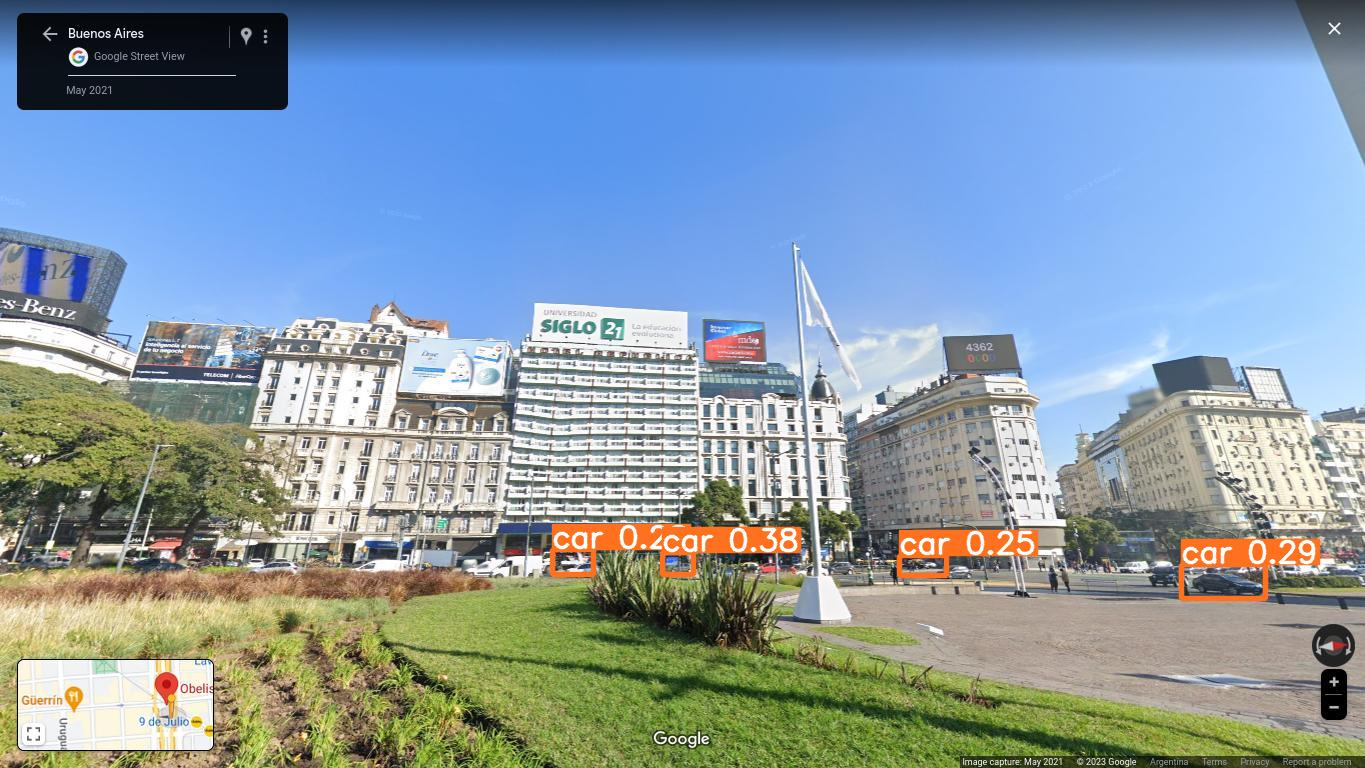
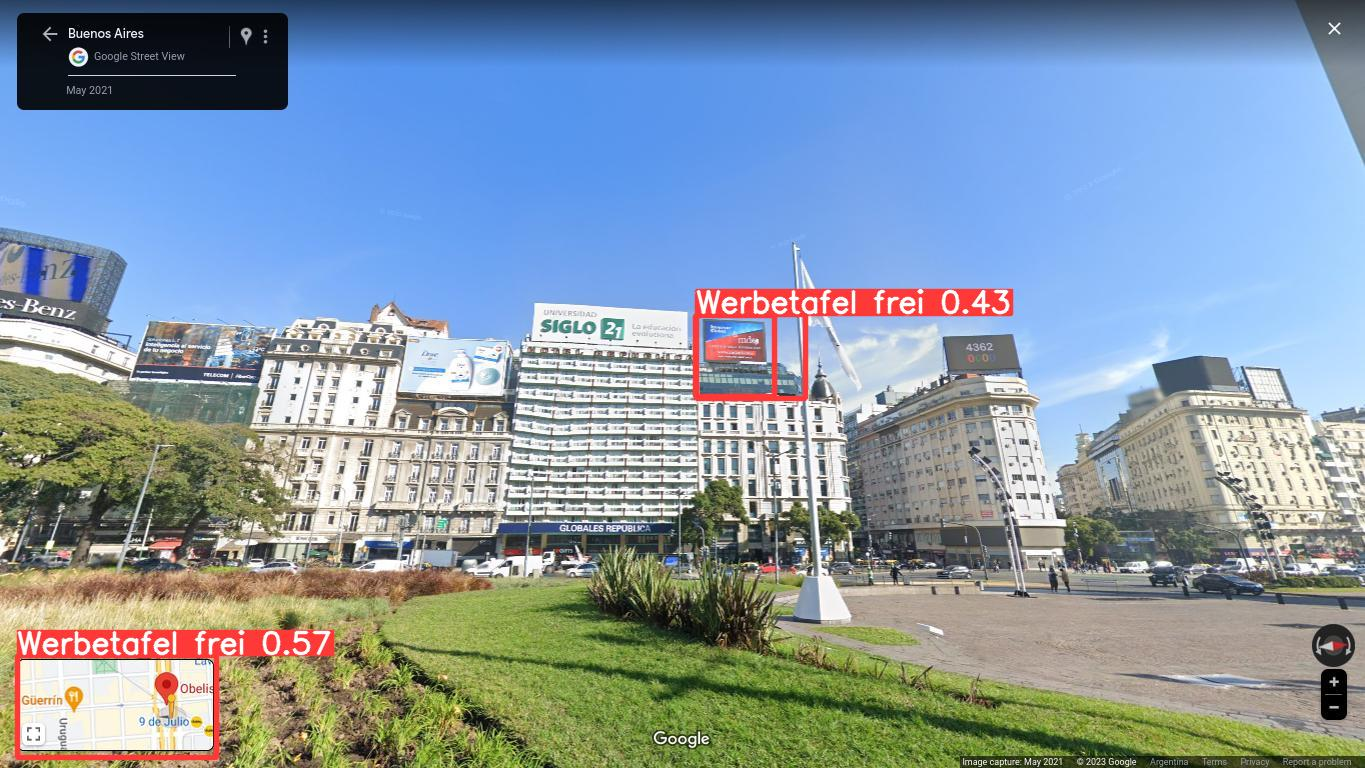
Use best model for testing

diff --git a/yolo8/predict.py b/yolo8/predict.py
@@ -2,7 +2,7 @@ from PIL import Image
 from ultralytics import YOLO
 
 # Load a pretrained YOLOv8n model
-model = YOLO('./first-yolov8n-test.pt')
+model = YOLO('./yolov8n_v8_50e/weights/best.pt')
 
 # results = model('test-billboard.jpeg')  # results list
 results = model('../test.jpg')  # results list
